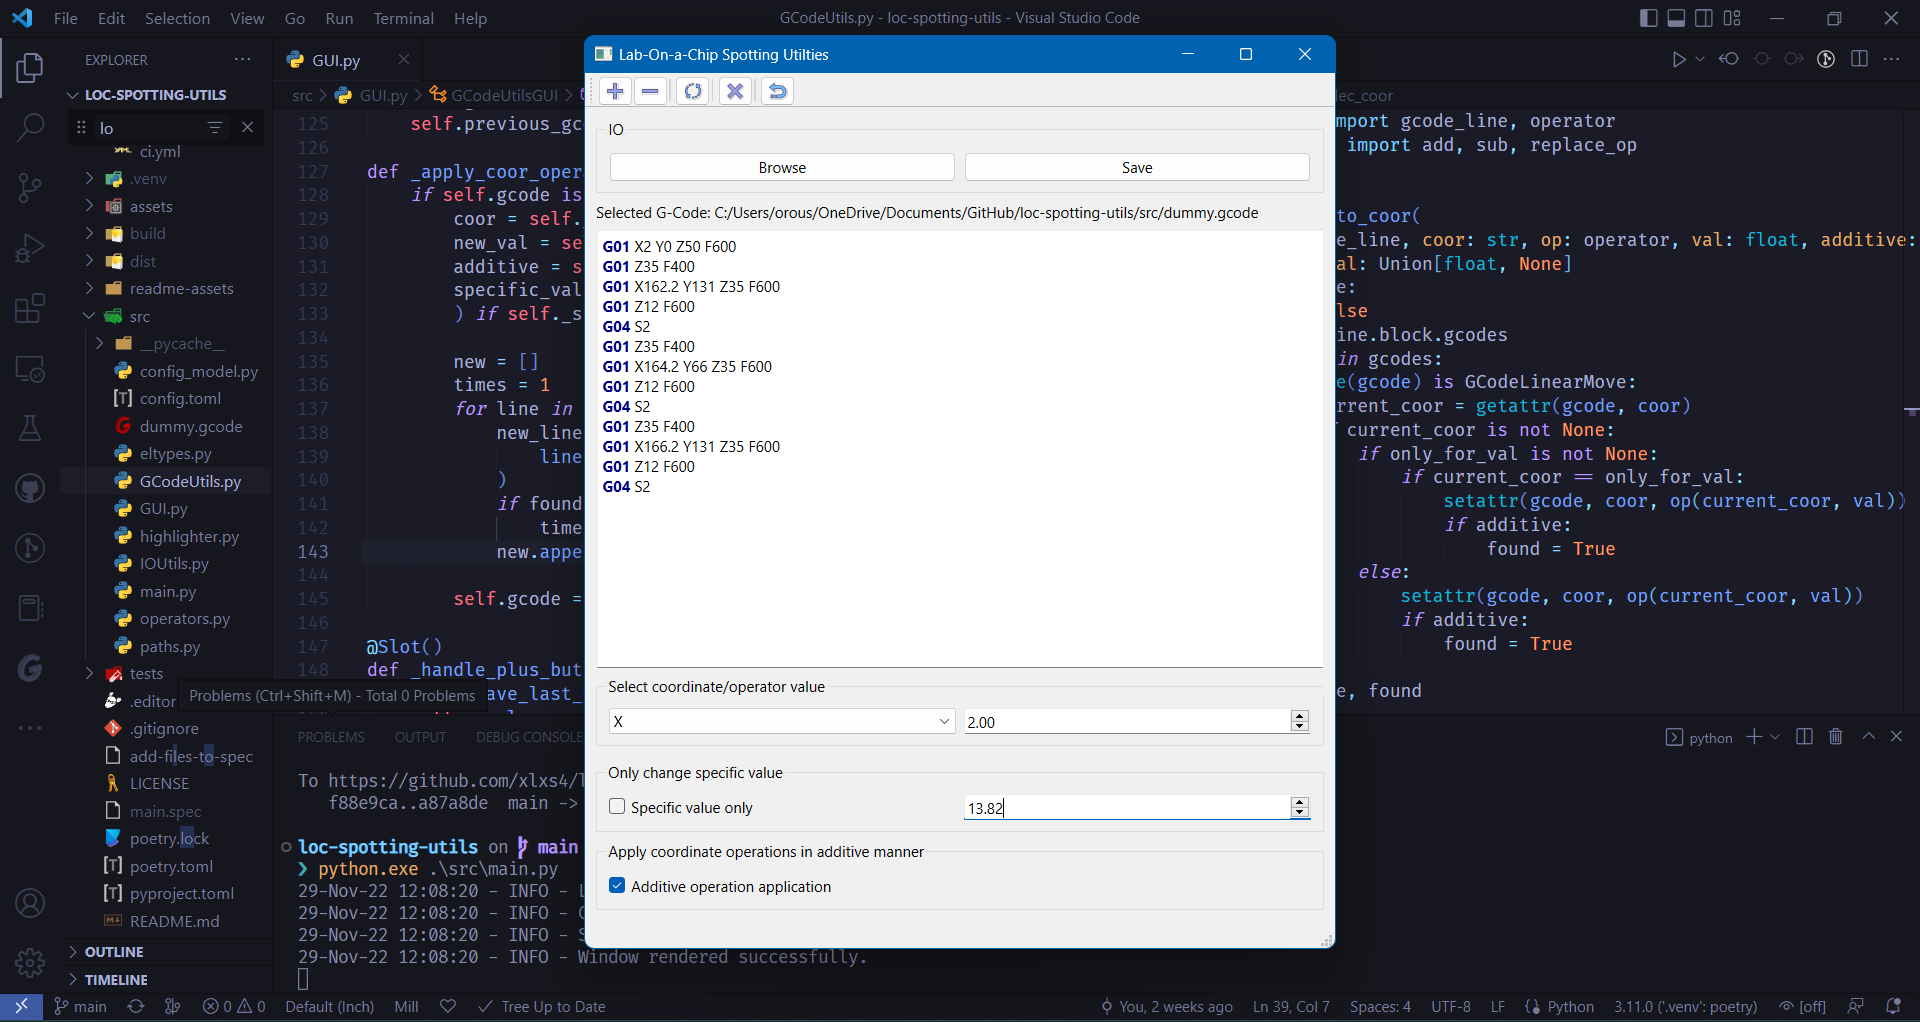
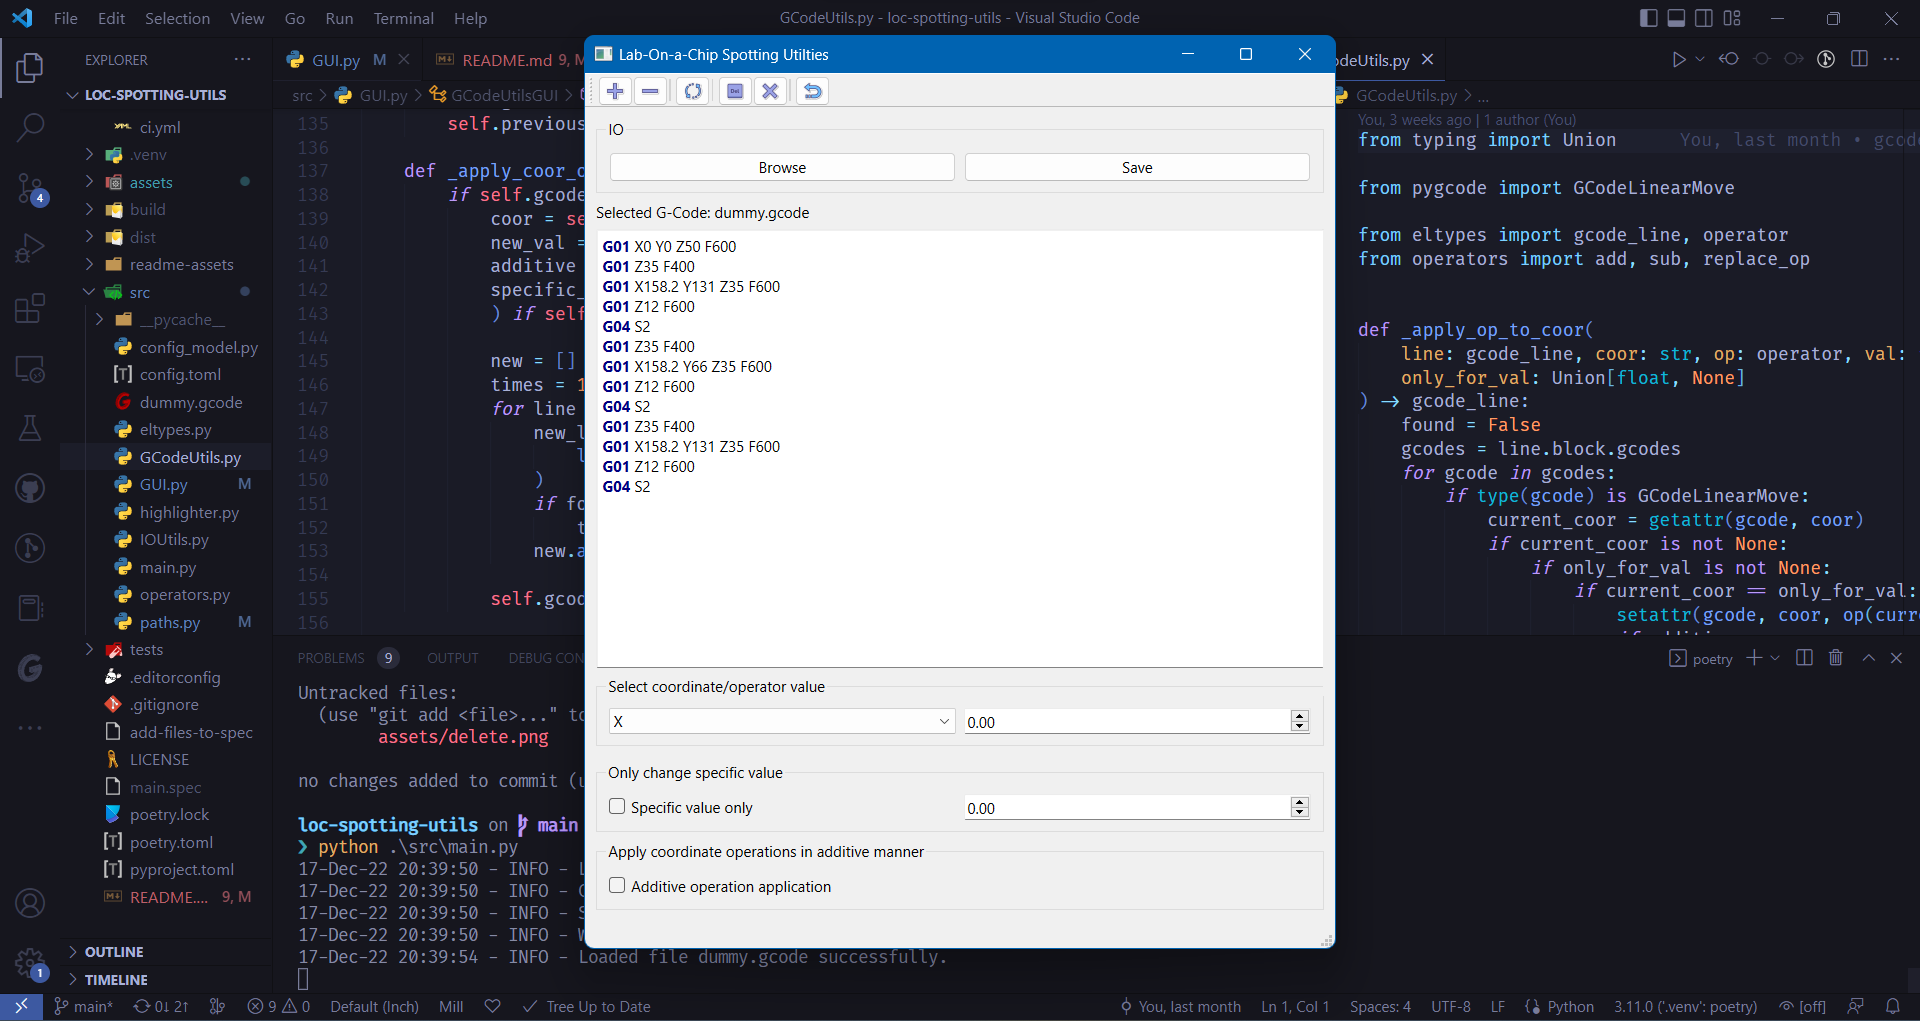
gui: Add delete selection button

diff --git a/src/GUI.py b/src/GUI.py
@@ -104,6 +104,14 @@ class GCodeUtilsGUI(QMainWindow):
         toolbar.addWidget(replace_button)
         toolbar.addSeparator()
 
+        delete_button = QPushButton(
+            QIcon(str(get_path("assets-delete", relative_paths))), "", self
+        )
+        delete_button.setStatusTip(self.tr("Delete selected lines"))
+        delete_button.clicked.connect(self._handle_delete_button)
+
+        toolbar.addWidget(delete_button)
+
         replicate_button = QPushButton(
             QIcon(str(get_path("assets-multiply", relative_paths))), "", self
         )
@@ -165,10 +173,46 @@ class GCodeUtilsGUI(QMainWindow):
         self._update_gcode_viewer()
 
     @Slot()
-    def _handle_replicate_button(self):
+    def _handle_delete_button(self):
+        cursor = self.gcode_viewer.textCursor()
+
+        sel_start = cursor.selectionStart()
+        sel_end = cursor.selectionEnd()
+
+        if sel_end == 0:
+            return
+
+        text = self.gcode_viewer.toPlainText().rstrip()
+        if sel_start != 0:
+            if text[sel_start - 1] != '\n':
+                last_newline = text.rfind('\n', 0, sel_start - 1)
+                sel_start = last_newline + 1 if last_newline != -1 else 0
+
+        text_length = len(text)
+        if sel_end >= text_length:
+            sel_end = text_length - 1
+
+        if text[sel_end] != '\n':
+            if text[sel_end - 1] != '\n':
+                next_newline = text.find('\n', sel_end)
+                sel_end = next_newline + 1 if next_newline != -1 else text_length
+        else:
+            sel_end += 1
+
+        new_text = text[:sel_start] + text[sel_end:]
+
         self._save_last_gcode()
+        self._update_gcode_from_text(new_text)
+        self._update_gcode_viewer()
+
+    @Slot()
+    def _handle_replicate_button(self):
         cursor = self.gcode_viewer.textCursor()
         sel_start = cursor.selectionStart()
+        sel_end = cursor.selectionEnd()
+
+        if sel_end == 0:
+            return
 
         text = self.gcode_viewer.toPlainText()
         sel_text = cursor.selection().toPlainText().rstrip() + '\n'
@@ -178,6 +222,7 @@ class GCodeUtilsGUI(QMainWindow):
 
         new_text = text[:sel_start] + sel_text * times + text[sel_start:]
 
+        self._save_last_gcode()
         self._update_gcode_from_text(new_text)
         self._update_gcode_viewer()
 

diff --git a/src/paths.py b/src/paths.py
@@ -4,6 +4,7 @@ from pyprojroot import here
 
 _PATHS = {
     "assets": "assets/",
+    "assets-delete": "assets/delete.png",
     "assets-minus": "assets/minus.png",
     "assets-multiply": "assets/multiply.png",
     "assets-plus": "assets/plus.png",

diff --git a/README.md b/README.md
@@ -178,6 +178,7 @@ Icons:
 - <a target="_blank" href="https://icons8.com/icon/occUe06FpCMr/subtract">Subtract</a> icon by <a target="_blank" href="https://icons8.com">Icons8</a>
 - <a target="_blank" href="https://icons8.com/icon/2VYfDlfknSJE/multiply">Multiply</a> icon by <a target="_blank" href="https://icons8.com">Icons8</a>
 - <a target="_blank" href="https://icons8.com/icon/e1AG2cMLWdUG/return">Return</a> icon by <a target="_blank" href="https://icons8.com">Icons8</a>
+- <a target="_blank" href="https://icons8.com/icon/wWzz4O7W1EY3/delete-key">Delete Key</a> icon by <a target="_blank" href="https://icons8.com">Icons8</a>
 
 #### Source
 
@@ -231,6 +232,8 @@ The GUI is the backbone of the application, and it's described in `GUI.py`:
 ```python
 from collections import deque
 from copy import deepcopy
+import logging
+from pathlib import Path
 
 from PySide6.QtCore import QSize, Slot
 from PySide6.QtGui import QIcon
@@ -333,6 +336,14 @@ class GCodeUtilsGUI(QMainWindow):
         toolbar.addWidget(replace_button)
         toolbar.addSeparator()
 
+        delete_button = QPushButton(
+            QIcon(str(get_path("assets-delete", relative_paths))), "", self
+        )
+        delete_button.setStatusTip(self.tr("Delete selection"))
+        delete_button.clicked.connect(self._handle_delete_button)
+
+        toolbar.addWidget(delete_button)
+
         replicate_button = QPushButton(
             QIcon(str(get_path("assets-multiply", relative_paths))), "", self
         )
@@ -394,19 +405,56 @@ class GCodeUtilsGUI(QMainWindow):
         self._update_gcode_viewer()
 
     @Slot()
-    def _handle_replicate_button(self):
+    def _handle_delete_button(self):
+        cursor = self.gcode_viewer.textCursor()
+
+        sel_start = cursor.selectionStart()
+        sel_end = cursor.selectionEnd()
+
+        if sel_end == 0:
+            return
+
+        text = self.gcode_viewer.toPlainText().rstrip()
+        if sel_start != 0:
+            if text[sel_start - 1] != '\n':
+                last_newline = text.rfind('\n', 0, sel_start - 1)
+                sel_start = last_newline + 1 if last_newline != -1 else 0
+
+        text_length = len(text)
+        if sel_end >= text_length:
+            sel_end = text_length - 1
+
+        if text[sel_end] != '\n':
+            if text[sel_end - 1] != '\n':
+                next_newline = text.find('\n', sel_end)
+                sel_end = next_newline + 1 if next_newline != -1 else text_length
+        else:
+            sel_end += 1
+
+        new_text = text[:sel_start] + text[sel_end:]
+
         self._save_last_gcode()
+        self._update_gcode_from_text(new_text)
+        self._update_gcode_viewer()
+
+    @Slot()
+    def _handle_replicate_button(self):
         cursor = self.gcode_viewer.textCursor()
         sel_start = cursor.selectionStart()
+        sel_end = cursor.selectionEnd()
+
+        if sel_end == 0:
+            return
 
         text = self.gcode_viewer.toPlainText()
         sel_text = cursor.selection().toPlainText().rstrip() + '\n'
 
         val = self._new_coor_val.value()
-        times = val if val > 0 else 1
+        times = int(val) if val > 0 else 1
 
         new_text = text[:sel_start] + sel_text * times + text[sel_start:]
 
+        self._save_last_gcode()
         self._update_gcode_from_text(new_text)
         self._update_gcode_viewer()
 
@@ -494,13 +542,16 @@ class GCodeUtilsGUI(QMainWindow):
 
         if dialog.exec():
             gcode_filename = dialog.selectedFiles()[0]
+            gcode_filename = Path(gcode_filename)
 
             self.selected_gcode_path.setText(
-                self.tr(f"Selected G-Code: {gcode_filename}")
+                self.tr(f"Selected G-Code: {gcode_filename.name}")
             )
             self.gcode = read_gcode(gcode_filename)
 
             self._update_gcode_viewer()
+
+            logging.info(f"Loaded file {gcode_filename.name} successfully.")
 
     def _save_gcode(self) -> None:
         dialog = QFileDialog(self)
@@ -513,6 +564,8 @@ class GCodeUtilsGUI(QMainWindow):
         if dialog.exec():
             gcode_filename = dialog.selectedFiles()[0]
             write_gcode(gcode_filename, self.gcode)
+
+            logging.info(f"Saved file {gcode_filename.name} successfully.")
 
     def _update_gcode_viewer(self) -> None:
         if self.gcode is not None:
@@ -562,6 +615,7 @@ There are four G-Code operations supported:
 2. **Sub**: Decrease coordinate(s) by specified amount (minus button)
 3. **Replace**: Set coordinate(s) to new value (replace button)
 4. **Replicate**: Replicated selected text X times (multiply button)
+5. **Delete**: Delete selected text (deletes the lines that contain the selection to avoid G-Code parsing errors)
 
 The user can select whether to apply the operations to the `X`, `Y` or `Z` coordinates.
 Additionally, instead of applying an operations to *every* `X|Y|Z` coordinate value, the user can instead only apply it to the `X|Y|Z` coordinate that are of a specified value.
@@ -677,6 +731,7 @@ from pyprojroot import here
 
 _PATHS = {
     "assets": "assets/",
+    "assets-delete": "assets/delete.png",
     "assets-minus": "assets/minus.png",
     "assets-multiply": "assets/multiply.png",
     "assets-plus": "assets/plus.png",
